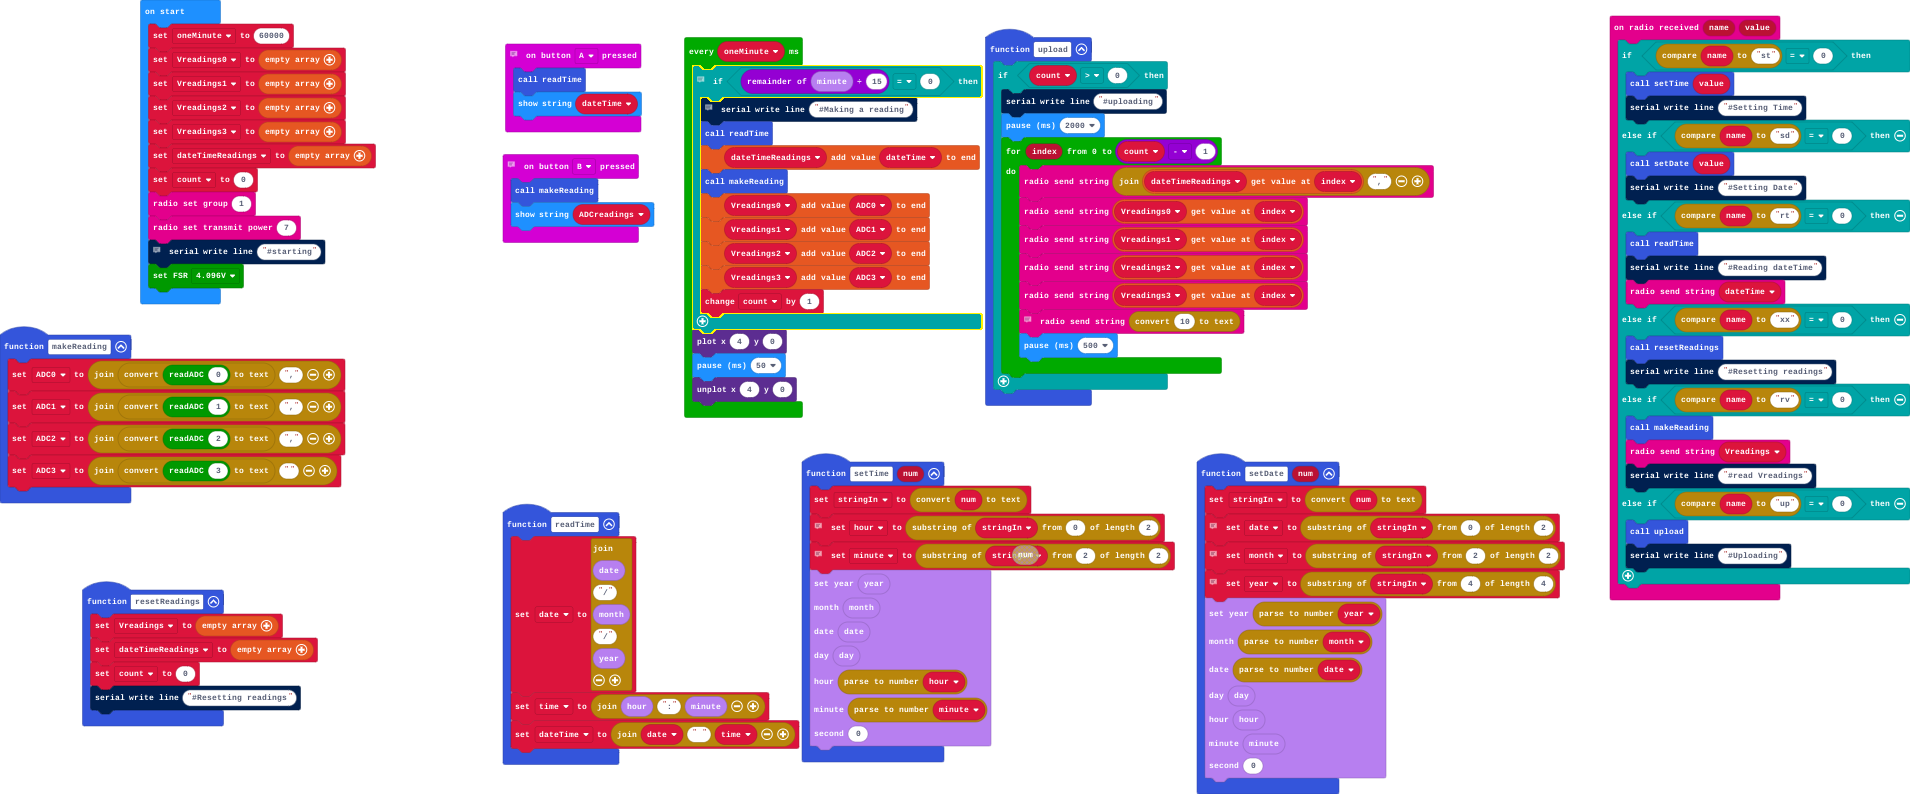
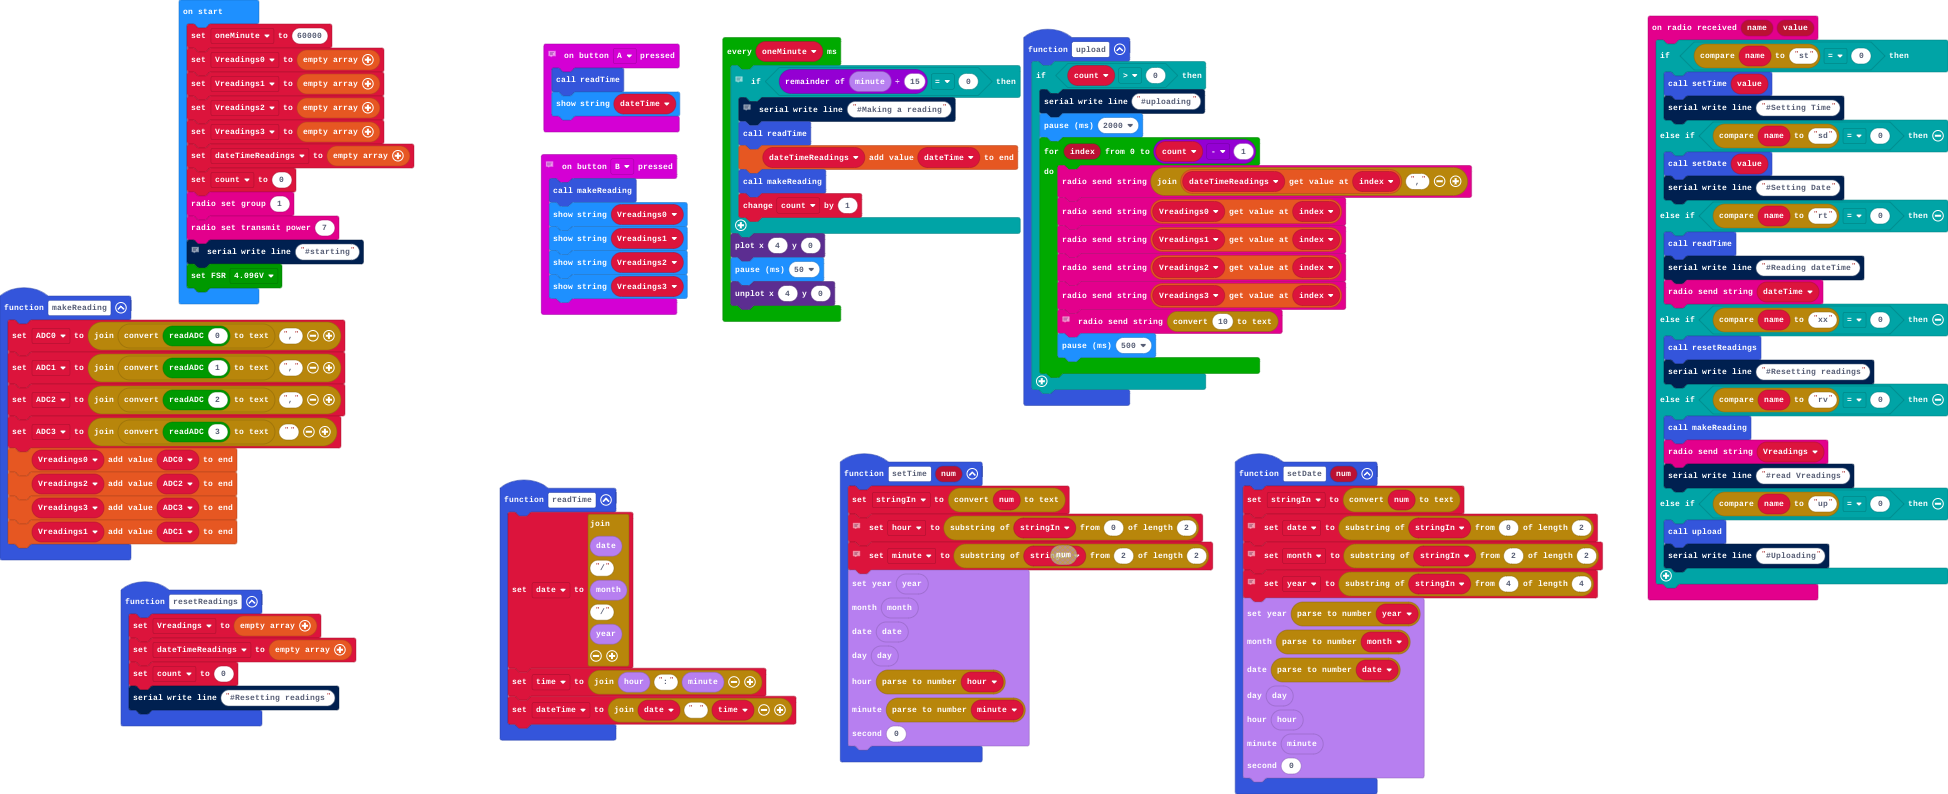
corrected button B code (strings)

Changed region(s): [[0.2471, 0.0302, 0.9885, 1.0], [0.2471, 0.0302, 0.7723, 0.5441], [0.0, 0.0, 0.2162, 0.937]]

diff --git a/main.ts b/main.ts
@@ -8,6 +8,10 @@ function makeReading () {
     ADC1 = "" + convertToText(ADS1115.readADC(1)) + ","
     ADC2 = "" + convertToText(ADS1115.readADC(2)) + ","
     ADC3 = "" + convertToText(ADS1115.readADC(3)) + ""
+    Vreadings0.push(ADC0)
+    Vreadings2.push(ADC2)
+    Vreadings3.push(ADC3)
+    Vreadings1.push(ADC1)
 }
 function resetReadings () {
     Vreadings = []
@@ -18,7 +22,7 @@ function resetReadings () {
 // Instant dateTime
 input.onButtonPressed(Button.A, function () {
     readTime()
-    basic.showString(dateTime)
+    basic.showString("" + (dateTime))
 })
 function setDate (num: number) {
     stringIn = convertToText(num)
@@ -72,9 +76,11 @@ function setTime (num: number) {
 }
 // Instant Vreadings
 input.onButtonPressed(Button.B, function () {
-    let ADCreadings = 0
     makeReading()
-    basic.showString("" + (ADCreadings))
+    basic.showString("" + (Vreadings0))
+    basic.showString("" + (Vreadings1))
+    basic.showString("" + (Vreadings2))
+    basic.showString("" + (Vreadings3))
 })
 radio.onReceivedValue(function (name, value) {
     if (name.compare("st") == 0) {
@@ -86,7 +92,7 @@ radio.onReceivedValue(function (name, value) {
     } else if (name.compare("rt") == 0) {
         readTime()
         serial.writeLine("#Reading dateTime")
-        radio.sendString(dateTime)
+        radio.sendString("" + (dateTime))
     } else if (name.compare("xx") == 0) {
         resetReadings()
         serial.writeLine("#Resetting readings")
@@ -99,20 +105,20 @@ radio.onReceivedValue(function (name, value) {
         serial.writeLine("#Uploading")
     }
 })
-let minute = ""
-let hour = ""
-let year = ""
-let month = ""
-let stringIn = ""
+let minute: string = []
+let hour: string = []
+let year: string = []
+let month: string = []
+let stringIn: string = []
 let Vreadings: number[] = []
-let ADC3 = ""
-let ADC2 = ""
-let ADC1 = ""
-let ADC0 = ""
-let dateTime = ""
-let time = ""
-let date = ""
-let count = 0
+let ADC3: string = []
+let ADC2: string = []
+let ADC1: string = []
+let ADC0: string = []
+let dateTime: string = []
+let time: string = []
+let date: string = []
+let count: number = []
 let dateTimeReadings: string[] = []
 let Vreadings3: string[] = []
 let Vreadings2: string[] = []
@@ -138,10 +144,6 @@ loops.everyInterval(oneMinute, function () {
         readTime()
         dateTimeReadings.push(dateTime)
         makeReading()
-        Vreadings0.push(ADC0)
-        Vreadings1.push(ADC1)
-        Vreadings2.push(ADC2)
-        Vreadings3.push(ADC3)
         count += 1
     }
     led.plot(4, 0)
